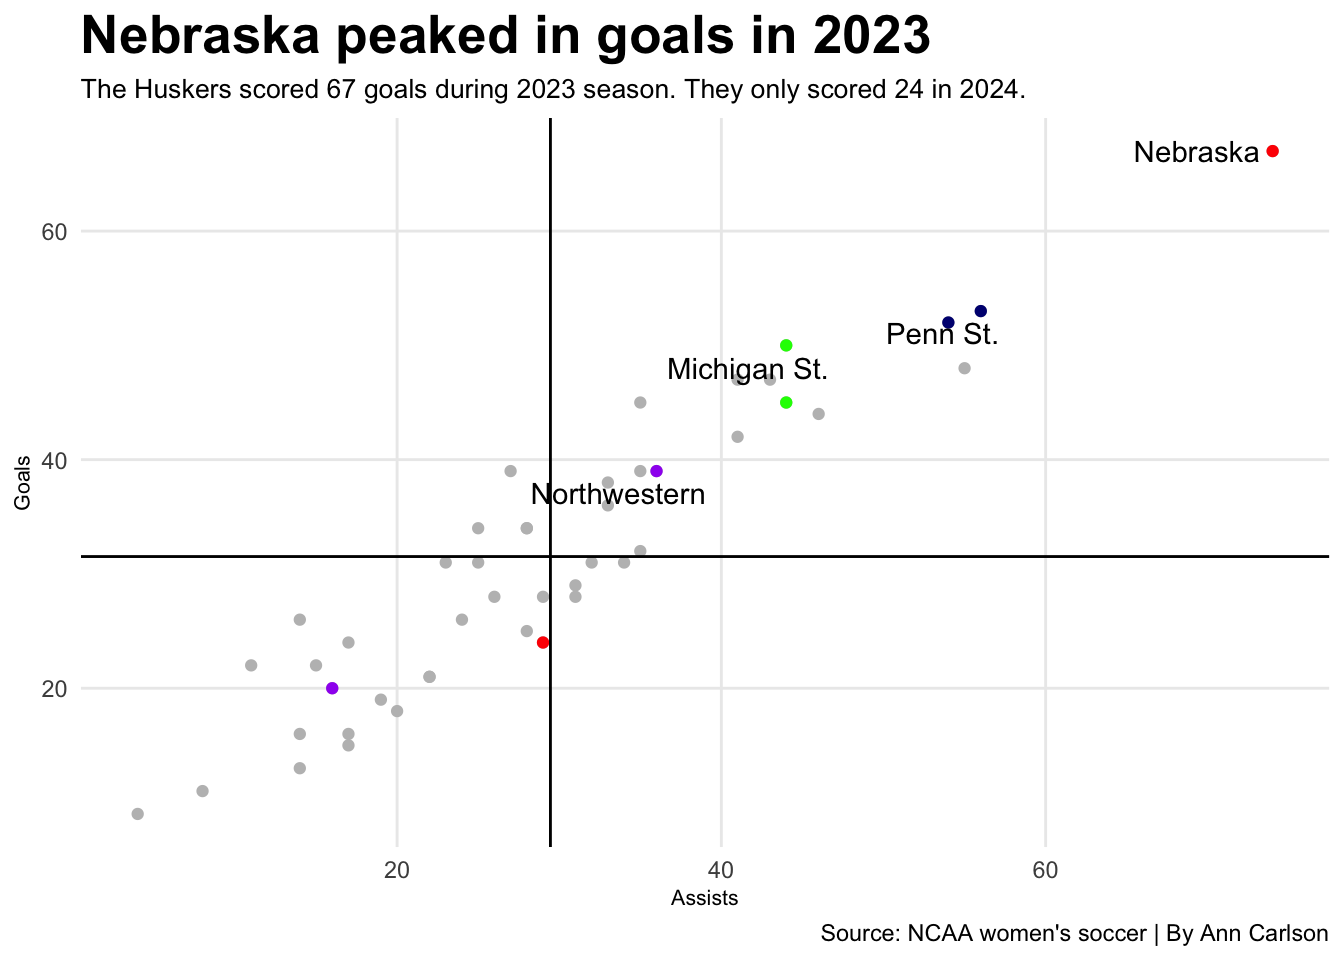
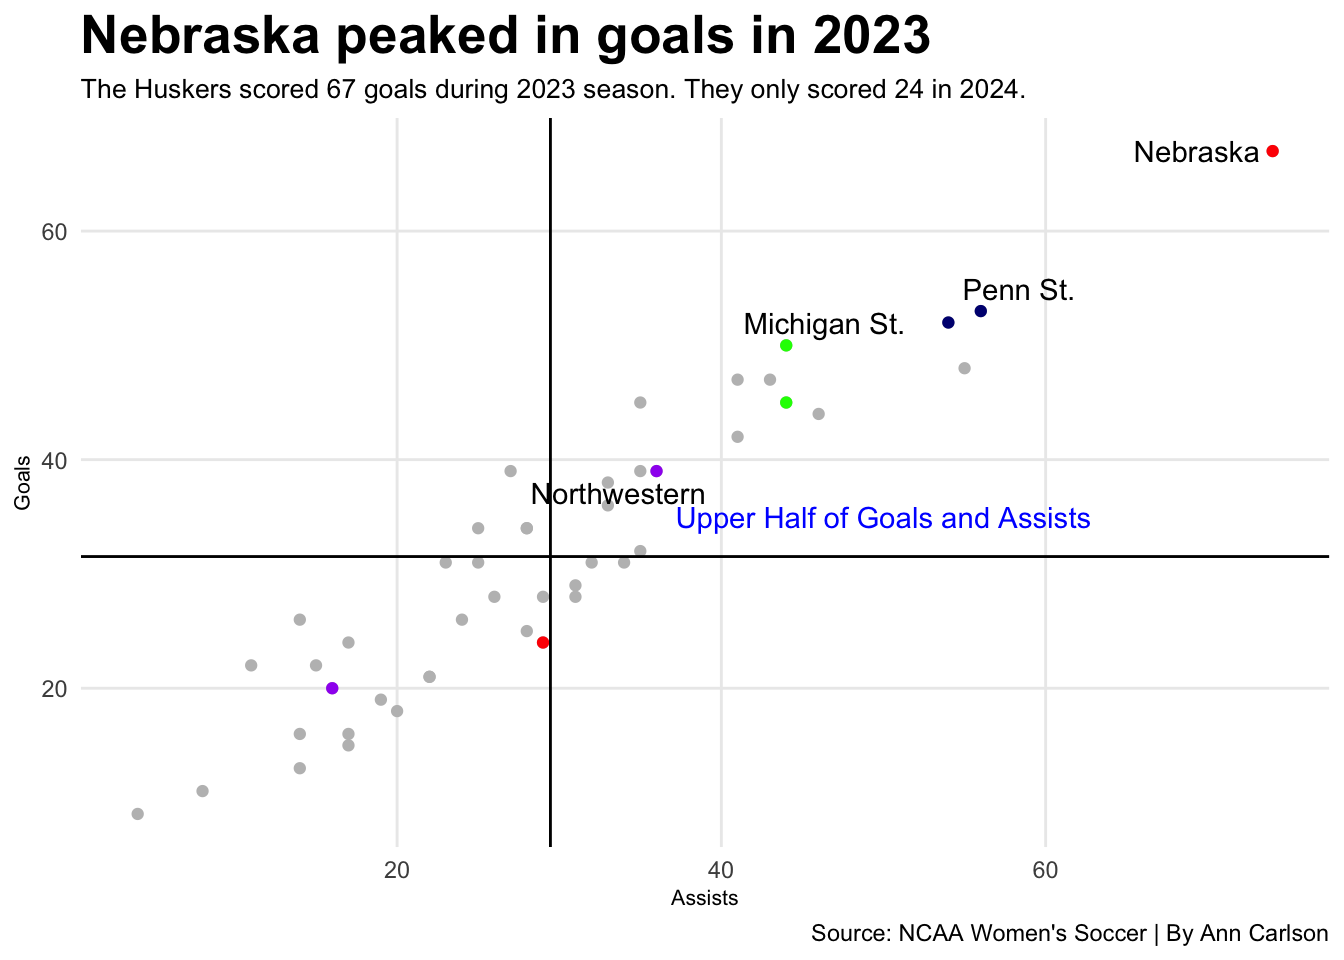
update
update final post

diff --git a/posts/husker-soccer-elenor-dale/index.html b/posts/husker-soccer-elenor-dale/index.html
@@ -7,7 +7,7 @@
 <meta name="viewport" content="width=device-width, initial-scale=1.0, user-scalable=yes">
 
 <meta name="author" content="Ann Carlson">
-<meta name="dcterms.date" content="2028-03-26">
+<meta name="dcterms.date" content="2026-04-27">
 
 <title>Elenor Dale carried Nebraska soccer in 2023 – Ann Carlson’s Blog</title>
 <style>
@@ -339,7 +339,7 @@ pre > code.sourceCode > span > a:first-child::before { text-decoration: underlin
       <div>
       <div class="quarto-title-meta-heading">Published</div>
       <div class="quarto-title-meta-contents">
-        <p class="date">March 26, 2028</p>
+        <p class="date">April 27, 2026</p>
       </div>
     </div>
     
@@ -376,7 +376,12 @@ pre > code.sourceCode > span > a:first-child::before { text-decoration: underlin
 <span id="cb1-12"><a href="#cb1-12" aria-hidden="true" tabindex="-1"></a>PS <span class="ot">&lt;-</span>bigten_womens_soccer <span class="sc">|&gt;</span><span class="fu">filter</span>(Institution<span class="sc">==</span><span class="st">"Penn St."</span>)</span></code></pre></div><button title="Copy to Clipboard" class="code-copy-button"><i class="bi"></i></button></div>
 </details>
 </div>
-<p>Nebraska soccer had one of their most highest scoring seasons in 2023.</p>
+<p>Did one player for Nebraska soccer carry the 2023 team?</p>
+<p>In 2023, the Husker soccer team scored 67 goals and made it to the Elite Eight. In their historic season, they also won the Big Ten Tournament and finished with a record of 17-4-3. In the 2024 season, the Huskers didn’t make it to the tournament.</p>
+<p>2023 was Eleanor Dale’s senior season. She scored 28 goals to lead the NCAA with the most goals in a season.</p>
+<p>Let’s look at some numbers.</p>
+<p>We are going to look at data from the 2022, 2023 and 2024 season that was taken from the NCAA website.</p>
+<p>To see how Nebraska’s goals compared to other teams in the Big Ten, we will look at the goals scored throughout three seasons. The chart is a slope chart to show the other Big Ten schools throughout three seasons.</p>
 <div class="cell">
 <details class="code-fold">
 <summary>Code</summary>
@@ -406,7 +411,7 @@ pre > code.sourceCode > span > a:first-child::before { text-decoration: underlin
 <span id="cb2-24"><a href="#cb2-24" aria-hidden="true" tabindex="-1"></a>    <span class="at">title=</span><span class="st">"Nebraska had the highest number of goals"</span>, </span>
 <span id="cb2-25"><a href="#cb2-25" aria-hidden="true" tabindex="-1"></a>    <span class="at">subtitle=</span><span class="st">"The Huskers had the most goals out of any team in the Big Ten during the 2023 season.</span></span>
 <span id="cb2-26"><a href="#cb2-26" aria-hidden="true" tabindex="-1"></a><span class="st">In 2024 they were one of the lowest scoring teams."</span>, </span>
-<span id="cb2-27"><a href="#cb2-27" aria-hidden="true" tabindex="-1"></a>    <span class="at">caption=</span><span class="st">"Source: NCAA women's soccer | By Ann Carlson"</span></span>
+<span id="cb2-27"><a href="#cb2-27" aria-hidden="true" tabindex="-1"></a>    <span class="at">caption=</span><span class="st">"Source: NCAA Women's Soccer | By Ann Carlson"</span></span>
 <span id="cb2-28"><a href="#cb2-28" aria-hidden="true" tabindex="-1"></a>    ) <span class="sc">+</span></span>
 <span id="cb2-29"><a href="#cb2-29" aria-hidden="true" tabindex="-1"></a>  <span class="fu">theme_minimal</span>() <span class="sc">+</span> </span>
 <span id="cb2-30"><a href="#cb2-30" aria-hidden="true" tabindex="-1"></a>  <span class="fu">theme</span>(</span>
@@ -424,6 +429,8 @@ pre > code.sourceCode > span > a:first-child::before { text-decoration: underlin
 </div>
 </div>
 </div>
+<p>In 2022, Nebraska finished in the middle of the Big Ten Conference with 31 goals. With Eleanor Dale’s 28 goals, the Huskers were the highest scoring team in the Big Ten for the 2023 season. After Eleanor Dale’s graduation, the Huskers were one of the lowest scoring teams during the 2024 season with only 24 goals.</p>
+<p>But how did they compare to the top teams in the Big Ten between the 2023 and 2024 season as far as assists and goals?</p>
 <div class="cell">
 <details class="code-fold">
 <summary>Code</summary>
@@ -464,20 +471,21 @@ pre > code.sourceCode > span > a:first-child::before { text-decoration: underlin
 <span id="cb3-35"><a href="#cb3-35" aria-hidden="true" tabindex="-1"></a>  ) <span class="sc">+</span></span>
 <span id="cb3-36"><a href="#cb3-36" aria-hidden="true" tabindex="-1"></a>  <span class="fu">geom_vline</span>(<span class="at">xintercept =</span> <span class="fl">29.45652</span>) <span class="sc">+</span> </span>
 <span id="cb3-37"><a href="#cb3-37" aria-hidden="true" tabindex="-1"></a>  <span class="fu">geom_hline</span>(<span class="at">yintercept =</span><span class="fl">31.52174</span>) <span class="sc">+</span></span>
-<span id="cb3-38"><a href="#cb3-38" aria-hidden="true" tabindex="-1"></a><span class="fu">labs</span>(</span>
-<span id="cb3-39"><a href="#cb3-39" aria-hidden="true" tabindex="-1"></a>    <span class="at">x=</span><span class="st">"Assists"</span>, </span>
-<span id="cb3-40"><a href="#cb3-40" aria-hidden="true" tabindex="-1"></a>    <span class="at">y=</span><span class="st">"Goals"</span>, </span>
-<span id="cb3-41"><a href="#cb3-41" aria-hidden="true" tabindex="-1"></a>    <span class="at">title=</span><span class="st">"Nebraska peaked in goals in 2023"</span>, </span>
-<span id="cb3-42"><a href="#cb3-42" aria-hidden="true" tabindex="-1"></a>    <span class="at">subtitle=</span><span class="st">"The Huskers scored 67 goals during 2023 season. They only scored 24 in 2024."</span>, </span>
-<span id="cb3-43"><a href="#cb3-43" aria-hidden="true" tabindex="-1"></a>    <span class="at">caption=</span><span class="st">"Source: NCAA women's soccer | By Ann Carlson"</span></span>
-<span id="cb3-44"><a href="#cb3-44" aria-hidden="true" tabindex="-1"></a>    ) <span class="sc">+</span></span>
-<span id="cb3-45"><a href="#cb3-45" aria-hidden="true" tabindex="-1"></a>  <span class="fu">theme_minimal</span>() <span class="sc">+</span> </span>
-<span id="cb3-46"><a href="#cb3-46" aria-hidden="true" tabindex="-1"></a>  <span class="fu">theme</span>(</span>
-<span id="cb3-47"><a href="#cb3-47" aria-hidden="true" tabindex="-1"></a>    <span class="at">plot.title =</span> <span class="fu">element_text</span>(<span class="at">size =</span> <span class="dv">20</span>, <span class="at">face =</span> <span class="st">"bold"</span>),</span>
-<span id="cb3-48"><a href="#cb3-48" aria-hidden="true" tabindex="-1"></a>    <span class="at">axis.title =</span> <span class="fu">element_text</span>(<span class="at">size =</span> <span class="dv">8</span>), </span>
-<span id="cb3-49"><a href="#cb3-49" aria-hidden="true" tabindex="-1"></a>    <span class="at">plot.subtitle =</span> <span class="fu">element_text</span>(<span class="at">size=</span><span class="dv">10</span>), </span>
-<span id="cb3-50"><a href="#cb3-50" aria-hidden="true" tabindex="-1"></a>    <span class="at">panel.grid.minor =</span> <span class="fu">element_blank</span>()</span>
-<span id="cb3-51"><a href="#cb3-51" aria-hidden="true" tabindex="-1"></a>    ) </span></code></pre></div><button title="Copy to Clipboard" class="code-copy-button"><i class="bi"></i></button></div>
+<span id="cb3-38"><a href="#cb3-38" aria-hidden="true" tabindex="-1"></a>  <span class="fu">geom_text</span>(<span class="fu">aes</span>(<span class="at">x=</span><span class="dv">50</span>, <span class="at">y=</span><span class="dv">35</span>, <span class="at">label=</span><span class="st">"Upper Half of Goals and Assists"</span>), <span class="at">color=</span><span class="st">"blue"</span>) <span class="sc">+</span> </span>
+<span id="cb3-39"><a href="#cb3-39" aria-hidden="true" tabindex="-1"></a><span class="fu">labs</span>(</span>
+<span id="cb3-40"><a href="#cb3-40" aria-hidden="true" tabindex="-1"></a>    <span class="at">x=</span><span class="st">"Assists"</span>, </span>
+<span id="cb3-41"><a href="#cb3-41" aria-hidden="true" tabindex="-1"></a>    <span class="at">y=</span><span class="st">"Goals"</span>, </span>
+<span id="cb3-42"><a href="#cb3-42" aria-hidden="true" tabindex="-1"></a>    <span class="at">title=</span><span class="st">"Nebraska peaked in goals in 2023"</span>, </span>
+<span id="cb3-43"><a href="#cb3-43" aria-hidden="true" tabindex="-1"></a>    <span class="at">subtitle=</span><span class="st">"The Huskers scored 67 goals during 2023 season. They only scored 24 in 2024."</span>, </span>
+<span id="cb3-44"><a href="#cb3-44" aria-hidden="true" tabindex="-1"></a>    <span class="at">caption=</span><span class="st">"Source: NCAA Women's Soccer | By Ann Carlson"</span></span>
+<span id="cb3-45"><a href="#cb3-45" aria-hidden="true" tabindex="-1"></a>    ) <span class="sc">+</span></span>
+<span id="cb3-46"><a href="#cb3-46" aria-hidden="true" tabindex="-1"></a>  <span class="fu">theme_minimal</span>() <span class="sc">+</span> </span>
+<span id="cb3-47"><a href="#cb3-47" aria-hidden="true" tabindex="-1"></a>  <span class="fu">theme</span>(</span>
+<span id="cb3-48"><a href="#cb3-48" aria-hidden="true" tabindex="-1"></a>    <span class="at">plot.title =</span> <span class="fu">element_text</span>(<span class="at">size =</span> <span class="dv">20</span>, <span class="at">face =</span> <span class="st">"bold"</span>),</span>
+<span id="cb3-49"><a href="#cb3-49" aria-hidden="true" tabindex="-1"></a>    <span class="at">axis.title =</span> <span class="fu">element_text</span>(<span class="at">size =</span> <span class="dv">8</span>), </span>
+<span id="cb3-50"><a href="#cb3-50" aria-hidden="true" tabindex="-1"></a>    <span class="at">plot.subtitle =</span> <span class="fu">element_text</span>(<span class="at">size=</span><span class="dv">10</span>), </span>
+<span id="cb3-51"><a href="#cb3-51" aria-hidden="true" tabindex="-1"></a>    <span class="at">panel.grid.minor =</span> <span class="fu">element_blank</span>()</span>
+<span id="cb3-52"><a href="#cb3-52" aria-hidden="true" tabindex="-1"></a>    ) </span></code></pre></div><button title="Copy to Clipboard" class="code-copy-button"><i class="bi"></i></button></div>
 </details>
 <div class="cell-output-display">
 <div>
@@ -487,6 +495,8 @@ pre > code.sourceCode > span > a:first-child::before { text-decoration: underlin
 </div>
 </div>
 </div>
+<p>This scatterplot demonstrates the difference in goals and assists between the top teams in the Big Ten from 2023 and 2024. Nebraska dropped to the lower third in assists and goals in the 2024 season. Northwestern also dropped to the lower end. Michigan State and Penn State saw similar results between both seasons.</p>
+<p>Now we have seen what Eleanor Dale did for Nebraska but how did she compare to all the other players in the NCAA?</p>
 <div class="cell">
 <details class="code-fold">
 <summary>Code</summary>
@@ -511,7 +521,7 @@ pre > code.sourceCode > span > a:first-child::before { text-decoration: underlin
 <span id="cb4-19"><a href="#cb4-19" aria-hidden="true" tabindex="-1"></a>    <span class="at">y=</span><span class="st">""</span>,</span>
 <span id="cb4-20"><a href="#cb4-20" aria-hidden="true" tabindex="-1"></a>    <span class="at">title=</span><span class="st">"Eleanor Dale led NCAA with most goals"</span>, </span>
 <span id="cb4-21"><a href="#cb4-21" aria-hidden="true" tabindex="-1"></a>    <span class="at">subtitle=</span><span class="st">"Dale led the Huskers with 28 goals in the 2023 season.</span><span class="sc">\n</span><span class="st">Behind her in The Big Ten was Sarah Weber, also from Nebraska."</span>, </span>
-<span id="cb4-22"><a href="#cb4-22" aria-hidden="true" tabindex="-1"></a>    <span class="at">caption=</span><span class="st">"Source: NCAA women's soccer | By Ann Carlson"</span></span>
+<span id="cb4-22"><a href="#cb4-22" aria-hidden="true" tabindex="-1"></a>    <span class="at">caption=</span><span class="st">"Source: NCAA Women's Soccer | By Ann Carlson"</span></span>
 <span id="cb4-23"><a href="#cb4-23" aria-hidden="true" tabindex="-1"></a>    ) <span class="sc">+</span></span>
 <span id="cb4-24"><a href="#cb4-24" aria-hidden="true" tabindex="-1"></a>  <span class="fu">theme_minimal</span>() <span class="sc">+</span> </span>
 <span id="cb4-25"><a href="#cb4-25" aria-hidden="true" tabindex="-1"></a>  <span class="fu">theme</span>(</span>
@@ -529,6 +539,11 @@ pre > code.sourceCode > span > a:first-child::before { text-decoration: underlin
 </div>
 </div>
 </div>
+<p>Eleanor Dale led the entire NCAA with the most goals in the 2023 season. The closest player in the Big Ten was another Nebraska player, Sarah Weber.</p>
+<p>Scoring 28 goals in a season is impressive and is why Nebraska had so much success in 2023.</p>
+<p>This answers the question that one player can carry the entire Husker soccer team. Without Eleanor Dale on the team, the Huskers struggled to have an offense during the 2024 season and then did not make the NCAA tournament at all.</p>
+<p>Leading the country in goals, Dale was named first-team All-American, first-team All-Big Ten and Big Ten Forward of the Year.</p>
+<p>Eleanor Dale was able to lead her team to an Elite Eight and have one of the most historic seasons, proving one player can carry a team if they can score enough.</p>
 
 
 

diff --git a/index.html b/index.html
@@ -373,7 +373,7 @@ window.Quarto = {
 
 <div class="quarto-listing quarto-listing-container-default" id="listing-listing">
 <div class="list quarto-listing-default">
-<div class="quarto-post image-right" data-index="0" data-categories="bmNhYSUyQ3NvY2NlciUyQ2h1c2tlcnM=" data-listing-date-sort="1837659600000" data-listing-file-modified-sort="1777304576580" data-listing-date-modified-sort="NaN" data-listing-reading-time-sort="4" data-listing-word-count-sort="732">
+<div class="quarto-post image-right" data-index="0" data-categories="bmNhYSUyQ3NvY2NlciUyQ2h1c2tlcnM=" data-listing-date-sort="1777266000000" data-listing-file-modified-sort="1777319942787" data-listing-date-modified-sort="NaN" data-listing-reading-time-sort="6" data-listing-word-count-sort="1169">
 <div class="thumbnail"><a href="./posts/husker-soccer-elenor-dale/index.html" class="no-external">
 
 <img loading="lazy" src="./posts/husker-soccer-elenor-dale/image.png" class="thumbnail-image">
@@ -393,13 +393,13 @@ window.Quarto = {
 
 </div>
 <div class="delink listing-description"><a href="./posts/husker-soccer-elenor-dale/index.html" class="no-external">
-Nebraska soccer had one of their most highest scoring seasons in 2023.
+Did one player for Nebraska soccer carry the 2023 team?
 </a></div>
 </div>
 <div class="metadata">
 <a href="./posts/husker-soccer-elenor-dale/index.html" class="no-external">
 <div class="listing-date">
-Mar 26, 2028
+Apr 27, 2026
 </div>
 <div class="listing-author">
 Ann Carlson
